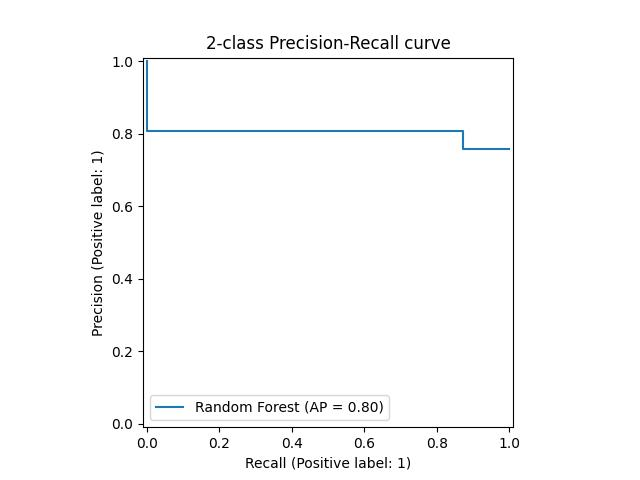
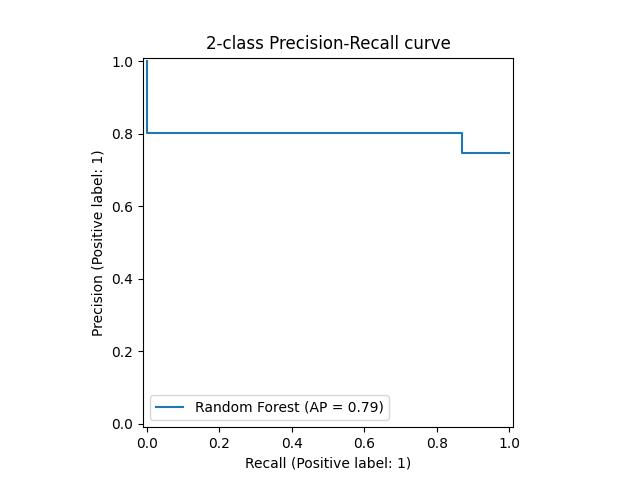
adds imputation

Changed region(s): [[0.2188, 0.25, 0.7188, 0.2812], [0.7188, 0.2812, 0.8125, 0.3438], [0.5625, 0.8438, 0.5938, 0.875]]

diff --git a/project/preprocessing/data_cleaning.py b/project/preprocessing/data_cleaning.py
@@ -3,6 +3,19 @@ import json
 import numpy as np
 import os
 
+def get_school_metro(project, df_projects_metro_filled):
+  '''
+  project: row in projects with metro df
+  '''
+  new_proj = df_projects_metro_filled[df_projects_metro_filled["projectid"] == project["projectid"]]
+  return new_proj["school_metro_filled"].values[0]
+
+def load_config(config_file="../config.json"):
+    """Load configuration from a JSON file."""
+    with open(config_file, 'r') as file:
+        config = json.load(file)
+    return config
+
 def clean_and_fill_data(df):
     """
     Remove invalid entries from the DataFrame by checking for missing values,
@@ -21,11 +34,25 @@ def clean_and_fill_data(df):
     df.drop_duplicates(inplace=True)
     print(f"Dropped {duplicates_count} duplicate rows.")
 
-    # Fill missing values for 'teacher_referred_count' with 0
-    if 'teacher_referred_count' in df.columns:
-        missing_teacher_referred = df['teacher_referred_count'].isnull().sum()
-        df['teacher_referred_count'] = df['teacher_referred_count'].fillna(0)
-        print(f"Filled {missing_teacher_referred} missing values in 'teacher_referred_count' with 0.")
+    # Fill missing values with imputation
+    config = load_config()
+    
+    projects_imputation = config["projects_imputation"]
+    for imp in projects_imputation:
+        nulls = df[imp].isnull().sum()
+        if projects_imputation[imp] == "0":
+            
+            df[imp] = df[imp].fillna(0)
+            print(f"Filled {nulls} missing values in {imp} with 0.")
+        elif projects_imputation[imp] == "mean":
+            df[imp] = df[imp].fillna(df[imp].mean())
+            print(f"Filled {nulls} missing values in {imp} with mean.")
+        elif projects_imputation[imp] == "gpt":
+            selected_dataset_path = "../data/projects_with_metro_gpt.csv"
+            df_metro = pd.read_csv(selected_dataset_path)
+            df["school_metro"] = df.apply(lambda project: project["school_metro"] if isinstance(project["school_metro"], str) else get_school_metro(project, df_metro), axis=1)
+            
+            print(f"Filled {nulls} missing values in {imp} with estimate from ChatGPT.")
 
     # Drop rows with any null values
     null_rows_count = df.isnull().sum().sum()
@@ -101,7 +128,7 @@ if __name__ == "__main__":
 
     # Clean the dataset
     df_cleaned = clean_and_fill_data(df)
-    df_cleaned = remove_outliers(df_cleaned)
+    # df_cleaned = remove_outliers(df_cleaned)
 
     # One-hot encode specified categorical features
     df_cleaned = one_hot_encode(df_cleaned, config['one_hot_encode_features'])
